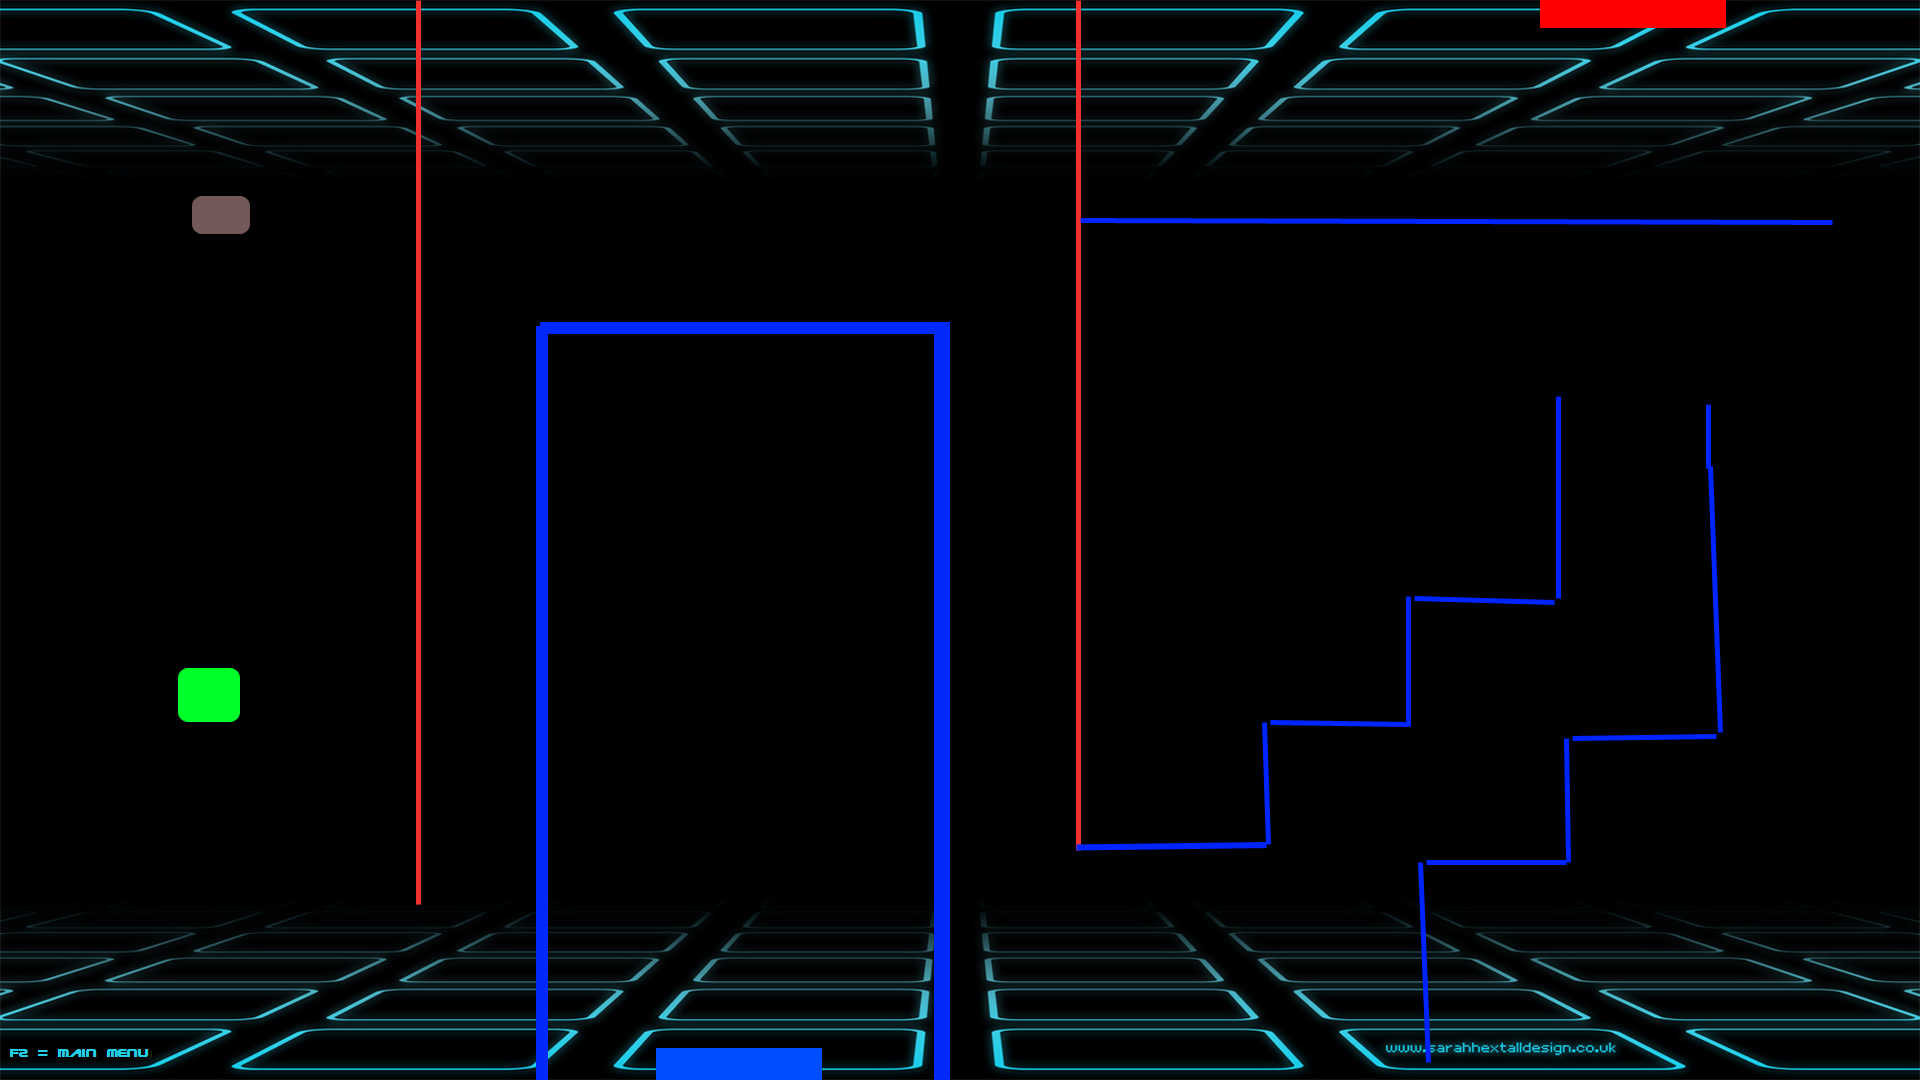
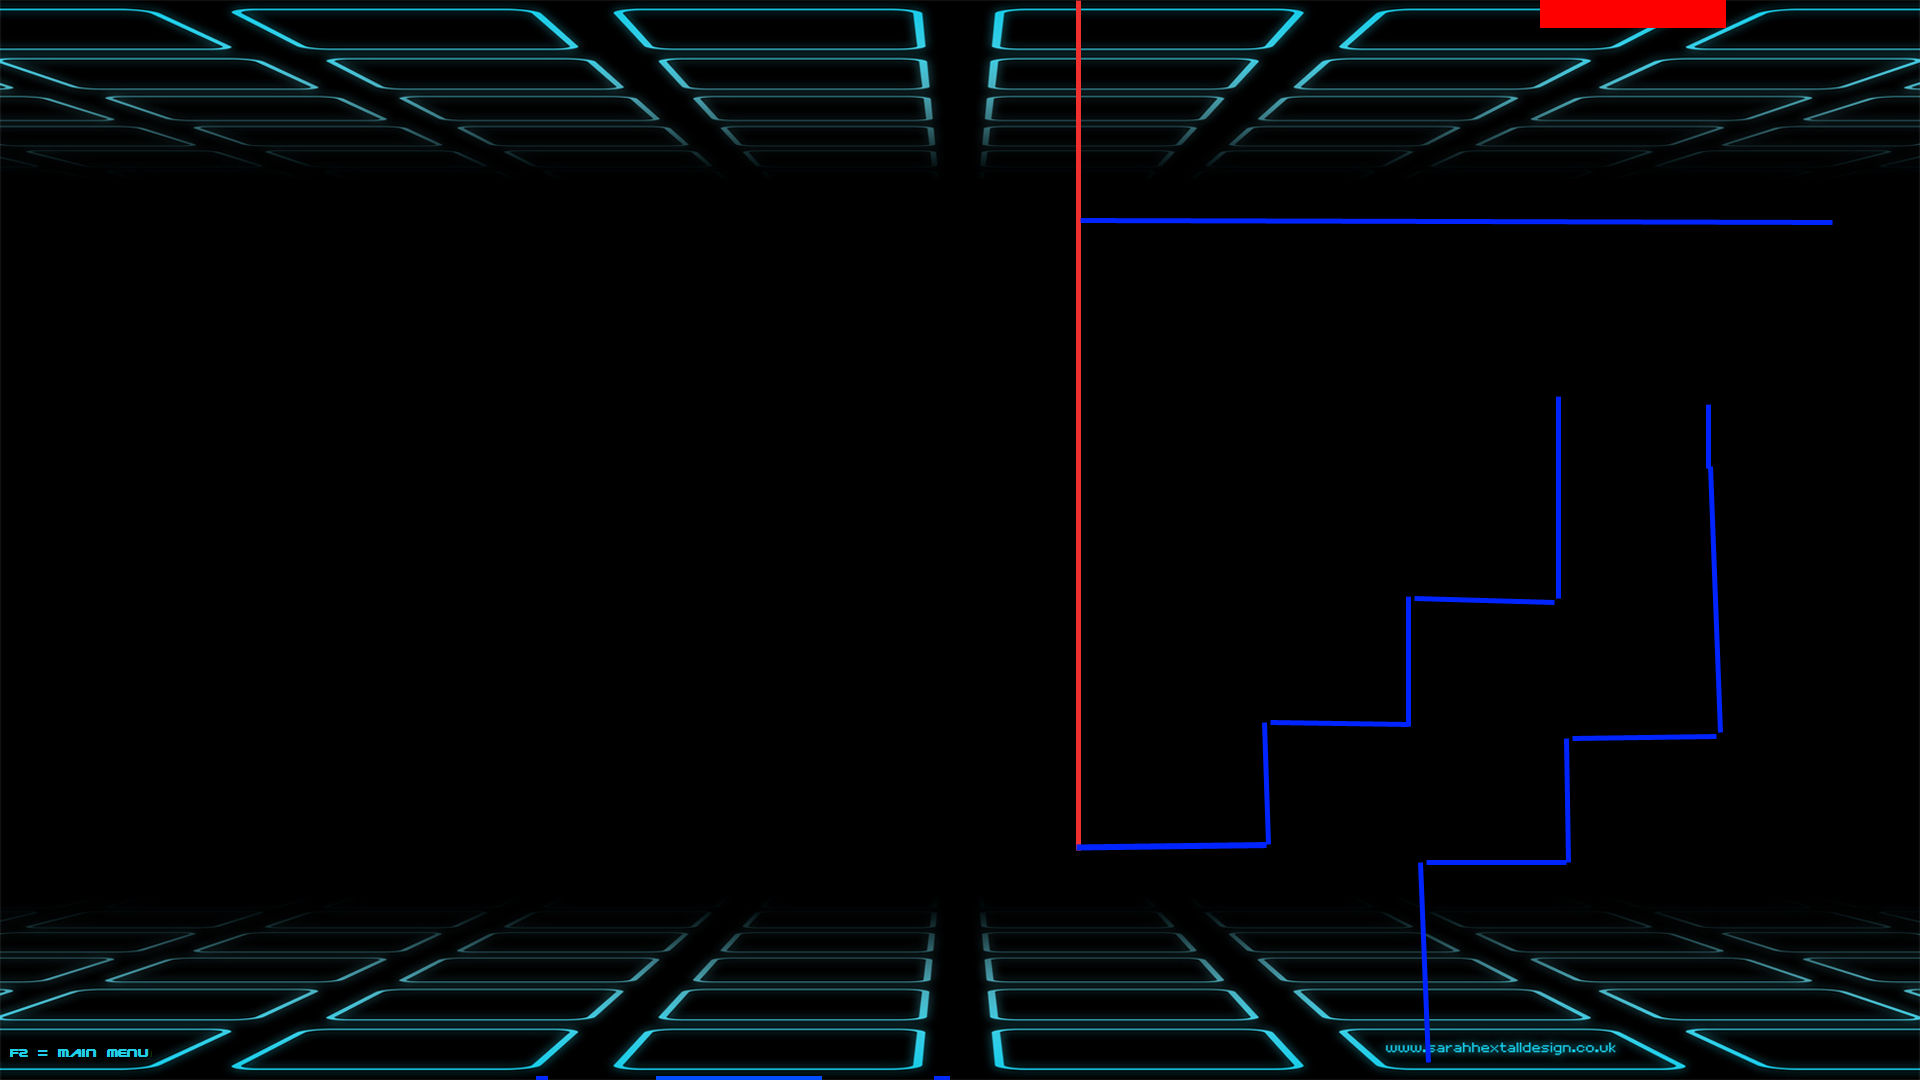
Fixing 2 nasty bugs + IA force tackle & force uncontested
2 nasty bugs:
- strobo of invisible objects was visible
- discoball position not synced on catch, causing outdated owner to get
possession back

diff --git a/Unstable/StarFighter/StarFighter/InGameState.cpp b/Unstable/StarFighter/StarFighter/InGameState.cpp
@@ -563,17 +563,18 @@ void InGameState::StartTuto04()
 	(*CurrentGame).addToScene(background, BackgroundLayer, BackgroundObject);
 	(*CurrentGame).map_size = background->m_size;
 
-	const float xo = 200;
+	const float xo = GOAL_SAFE_ZONE_X + 150;
 	const float yo = 200;
-	const float y_disc = 700;
+	const float y_disc = 600;
 
-	const float xa = 250;
+	const float xa = GOAL_SAFE_ZONE_X + 300;
+	const float xb = GOAL_SAFE_ZONE_X + 400;
 	const float ya = 800;
+	const float goal_size = 300;
 
-	const float goal_size = 200;
-
-
-	//CreateIACharacter(sf::Vector2f(x1, ya), Quorra, RedTeam, IAHard, true);
+	const float xc = GOAL_SAFE_ZONE_X + 800;
+	const float xd = GOAL_SAFE_ZONE_X + 900;
+	const float yb = 600;
 
 	//Start
 	Ship* playerShip1 = CreateCharacter(sf::Vector2f(xo, yo), Natalia, BlueTeam);
@@ -586,8 +587,19 @@ void InGameState::StartTuto04()
 
 	//Switch1
 	CreateGoal(BlueTeam, sf::Vector2f(8, ya), sf::Vector2f(16, goal_size));
-
 	AutoFillGoalBumpers(BorderLeft, goal_size, ya);
+	CreateBumper(OnlyRedTeamThrough, sf::Vector2f(xa, ya /2), true, ya);
+	CreateBumper(OnlyBlueTeamThrough, sf::Vector2f(xb, (*CurrentGame).map_size.y - ya / 2), true, ya);
+
+	//Switch2
+	AutoFillGoalBumpers(BorderLeft, goal_size, ya);
+	CreateBumper(OnlyRedTeamThrough, sf::Vector2f(xa, ya / 2), true, ya);
+	CreateBumper(OnlyBlueTeamThrough, sf::Vector2f(xc, (*CurrentGame).map_size.y - ya / 2), true, ya);
+	CreateBumper(OnlyBlueTeamThrough, sf::Vector2f((xc + xb) /2, (*CurrentGame).map_size.y - ya), false, xc - xb);
+	CreateBumper(OnlyRedTeamThrough, sf::Vector2f(xd, ya / 2), true, ya);
+	ShipIA* bot1 = CreateIACharacter(sf::Vector2f((xc + xb) / 2, yb), Quorra, RedTeam, IAHard, true);
+	bot1->ForceDiscoballUncontested();
+	bot1->ForceTackleDisabled();
 }
 
 void InGameState::AutoFillGoalBumpers(ScreenBorder border, float goal_size, float goal_pos)

diff --git a/Unstable/StarFighter/StarFighter/ShipIA.cpp b/Unstable/StarFighter/StarFighter/ShipIA.cpp
@@ -28,6 +28,10 @@ void ShipIA::Init()
 	m_disable_inputs = true;
 	m_hold_tackle_duration = 0;
 	m_tackle_activated = false;
+
+	//IA scripted
+	m_force_discoball_uncontested = false;
+	m_force_tackle_disabled = false;
 }
 
 ShipIA::~ShipIA()
@@ -226,7 +230,7 @@ void ShipIA::IA_MoveToObject(GameObject* object, sf::Time deltaTime, bool antici
 
 void ShipIA::Tackle(float hold_tackle_duration)
 {
-	if (m_isTackling == NOT_TACKLING)
+	if (m_isTackling == NOT_TACKLING && !m_force_tackle_disabled)
 	{
 		m_hold_tackle_duration = hold_tackle_duration;
 		m_tackle_activated = true;
@@ -477,7 +481,7 @@ bool ShipIA::isTargetBallContested()
 		GameObject* opponent = FindClosestGameObjectTyped(m_target_discoball, GetOpponentGameObjectType(this));
 		const float distance_discoball_to_opponent = GetDistanceBetweenObjects(opponent, m_target_discoball);
 
-		if (distance_discoball_to_opponent > IA_DISTANCE_FOR_UNCONTESTED || (distance_to_target <= distance_discoball_to_opponent))
+		if (distance_discoball_to_opponent > IA_DISTANCE_FOR_UNCONTESTED || (distance_to_target <= distance_discoball_to_opponent) || m_force_discoball_uncontested)
 			return false;
 		else
 			return true;
@@ -498,4 +502,14 @@ GameObjectType ShipIA::GetOwnGameObjectType(Ship* player)
 	assert(player != NULL);
 	GameObjectType type = player->m_team == BlueTeam ? PlayerBlueShip : PlayerRedShip;
 	return type;
+}
+
+void ShipIA::ForceDiscoballUncontested(bool forced_value)
+{
+	m_force_discoball_uncontested = forced_value;
+}
+
+void ShipIA::ForceTackleDisabled(bool forced_value)
+{
+	m_force_tackle_disabled = forced_value;
 }

diff --git a/Unstable/StarFighter/StarFighter/Ship.cpp b/Unstable/StarFighter/StarFighter/Ship.cpp
@@ -134,7 +134,7 @@ void Ship::update(sf::Time deltaTime)
 	ManageFeedbacks();
 
 	//stroboscopic effect
-	if (GetAbsoluteSpeed() > SHIP_MAX_SPEED)
+	if (GetAbsoluteSpeed() > SHIP_MAX_SPEED && visible)
 	{
 		PlayStroboscopicEffect(seconds(TACKLE_STROBO_EFFECT_DURATION * GetAbsoluteSpeed() / SHIP_TACKLE_MAX_SPEED), seconds(STROBO_EFFECT_TIME_BETWEEN_POSES));
 	}	
@@ -318,6 +318,9 @@ void Ship::GetDiscoball(GameObject* discoball, float angle_collision)
 				m_discoball->m_carrier = this;
 				discoball_curAngle = angle_collision;
 				m_carrier_clock.restart();
+				//transmitting values to the discoball
+				m_discoball->m_carrier_curAngle = discoball_curAngle;
+				m_discoball->m_carrier_curPosition = getPosition();
 
 				//checking min and max cap values
 				//printf("Discoball catched (speed: %f", m_discoball->discoball_curAngularSpeed);

diff --git a/Unstable/StarFighter/StarFighter/Discoball.cpp b/Unstable/StarFighter/StarFighter/Discoball.cpp
@@ -46,10 +46,6 @@ void Discoball::update(sf::Time deltaTime)
 {
 	m_isTouchingBumper = false;
 
-	//stroboscopic effect
-	if (discoball_curAngularSpeed > ANGULARSPEED_FOR_STROBO_ACTIVATION)
-		PlayStroboscopicEffect(seconds(STROBO_EFFECT_DURATION * discoball_curAngularSpeed / CARRY_MAX_ANGULAR_SPEED), seconds(STROBO_EFFECT_TIME_BETWEEN_POSES));
-
 	if (!m_carried)
 	{
 		static sf::Vector2f newposition;
@@ -130,6 +126,10 @@ void Discoball::update(sf::Time deltaTime)
 
 		coeff_friction = 0;
 	}
+
+	//stroboscopic effect
+	if (discoball_curAngularSpeed > ANGULARSPEED_FOR_STROBO_ACTIVATION && visible)
+		PlayStroboscopicEffect(seconds(STROBO_EFFECT_DURATION * discoball_curAngularSpeed / CARRY_MAX_ANGULAR_SPEED), seconds(STROBO_EFFECT_TIME_BETWEEN_POSES));
 
 	AnimatedSprite::update(deltaTime);
 }

diff --git a/Unstable/StarFighter/StarFighter/ShipIA.h b/Unstable/StarFighter/StarFighter/ShipIA.h
@@ -48,12 +48,17 @@ public :
 	static GameObjectType GetOpponentGameObjectType(Ship* player);
 	static GameObjectType GetOwnGameObjectType(Ship* player);
 
+	void ForceDiscoballUncontested(bool forced_value = true);
+	void ForceTackleDisabled(bool forced_value = true);
+
 private:
 	bool m_IA_activated;
 	IADifficultyLevel m_IA_level;
 	sf::Clock m_reaction_clock;
 	float m_hold_tackle_duration;
 	float m_tackle_activated;
+	bool m_force_discoball_uncontested;
+	bool m_force_tackle_disabled;
 };
 
 #endif // SHIPIA_H_INCLUDED

diff --git a/Unstable/StarFighter/StarFighter/Game.cpp b/Unstable/StarFighter/StarFighter/Game.cpp
@@ -221,7 +221,6 @@ void Game::drawScene()
 
 				if ((*(*it)).visible)
 				{
-
 					this->mainScreen.draw((*(*it)));
 				}
 			}
